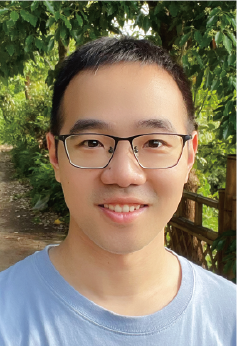
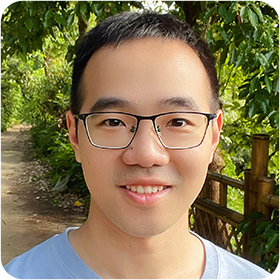
style improvement

diff --git a/templates/index.html b/templates/index.html
@@ -14,17 +14,30 @@
 
     <div class="column1">
       <div class="overall">
-        <h2>Personal Information</h2>
-        <img style="width: auto;"
+        <img style="width: auto; border-radius: 10px;"
         class="fit-picture"           
         src="{{ url_for('static', filename='images/self.png')}}" 
-        alt="Logo-NUS">  
-        <p><strong>Name:</strong> {{person.name}}</p>
+        alt="self">  
+        <h2 class="name" style="color: #144cf7; text-align: center; margin-bottom: 0px;">{{person.name}}</h2>
         <!-- <p><strong>Age:</strong> {{person.age}}</p> -->
-        <p><strong>Email:</strong> {{person.email}}</p>
-        <p><strong>Phone:</strong> {{person.phone}}</p>
-        <p><strong>Location:</strong> {{person.location}}</p>        
-        <a class="badge-base__link LI-simple-link" href="https://www.linkedin.com/in/zeshi-yang">Linkedin</a>
+        <p style="text-align: center;margin-top: 0px; font-size: small;">Ph.D. Candidate</p>
+        <div style="display: flex; align-items: center; justify-content: start;">
+          <!-- <img style="width: 30px;" class="fit-picture" src="{{ url_for('static', filename='images/asset/mail-blue.png')}}" alt="self"> -->
+          <p style="margin-left: 5px;">{{person.email}}</p>
+        </div>
+        <div style="display: flex; align-items: center; justify-content: start;">
+          <img style="width: 30px;" class="fit-picture" src="{{ url_for('static', filename='images/asset/tel-blue.png')}}" alt="self">
+          <p style="margin-left: 5px;">{{person.phone}}</p>
+        </div>
+        <div style="display: flex; align-items: center; justify-content: start;">
+          <img style="width: 30px;" class="fit-picture" src="{{ url_for('static', filename='images/asset/add-blue.png')}}" alt="self">
+          <p style="margin-left: 5px;">{{person.location}}</p>
+        </div>      
+        <div style="display: flex; align-items: center; justify-content: start;">
+          <img style="width: 30px;" class="fit-picture" src="{{ url_for('static', filename='images/asset/link-blue.png')}}" alt="self">
+          <p style="margin-left: 5px;">
+          <a href="https://www.linkedin.com/in/zeshi-yang">Linkedin</a></p>          
+        </div>      
       </div>
     </div>
 
@@ -32,8 +45,8 @@
     <div class="column2">
       <div class="wrapper">
         <div class="section">
-          <h2>About me</h2> 
-          <p>{{ person.introduction | safe}}</p>
+          <h2 style="margin-top: 0;">About me</h2> 
+          <p style="text-align: justify;">{{ person.introduction | safe}}</p>
           <p class="spacer"></p>
           <p><strong>Mottos:</strong></p>            
           <p>在不断的膨胀与打脸中，苟求一丝对世界的认识 (2016-2023)</p>   
@@ -109,4 +122,5 @@
   </div> 
 </body>
 </html>
+<hr>
 {% endblock %}

diff --git a/templates/contact.html b/templates/contact.html
@@ -6,21 +6,34 @@
     <link rel="stylesheet" type="text/css" href="{{ url_for('static', filename='styles/main.css') }}">
 </head>
 <body>
-  <div class="column-container" style="display: grid; grid-template-columns: 1fr 4fr;grid-gap: 100px;"> 
+  <div class="column-container" style="display: grid; grid-template-columns: 165px 4fr;grid-gap: 100px;"> 
 
     <div class="column1">
       <div class="overall">
-        <h2>Personal Information</h2>
-        <img 
+        <img style="width: auto; border-radius: 10px;"
         class="fit-picture"           
         src="{{ url_for('static', filename='images/self.png')}}" 
-        alt="Logo-NUS">  
-        <p><strong>Name:</strong> {{person.name}}</p>
+        alt="self">  
+        <h2 class="name" style="color: #144cf7; text-align: center; margin-bottom: 0px;">{{person.name}}</h2>
         <!-- <p><strong>Age:</strong> {{person.age}}</p> -->
-        <p><strong>Email:</strong> {{person.email}}</p>
-        <p><strong>Phone:</strong> {{person.phone}}</p>
-        <p><strong>Location:</strong> {{person.location}}</p>        
-        <a class="badge-base__link LI-simple-link" href="https://www.linkedin.com/in/zeshi-yang">Linkedin</a>
+        <p style="text-align: center;margin-top: 0px;font-size: small;">Ph.D. Candidate</p>
+        <div style="display: flex; align-items: center; justify-content: start;">
+          <!-- <img style="width: 30px;" class="fit-picture" src="{{ url_for('static', filename='images/asset/mail-blue.png')}}" alt="self"> -->
+          <p style="margin-left: 5px;">{{person.email}}</p>
+        </div>
+        <div style="display: flex; align-items: center; justify-content: start;">
+          <img style="width: 30px;" class="fit-picture" src="{{ url_for('static', filename='images/asset/tel-blue.png')}}" alt="self">
+          <p style="margin-left: 5px;">{{person.phone}}</p>
+        </div>
+        <div style="display: flex; align-items: center; justify-content: start;">
+          <img style="width: 30px;" class="fit-picture" src="{{ url_for('static', filename='images/asset/add-blue.png')}}" alt="self">
+          <p style="margin-left: 5px;">{{person.location}}</p>
+        </div>      
+        <div style="display: flex; align-items: center; justify-content: start;">
+          <img style="width: 30px;" class="fit-picture" src="{{ url_for('static', filename='images/asset/link-blue.png')}}" alt="self">
+          <p style="margin-left: 5px;">
+          <a href="https://www.linkedin.com/in/zeshi-yang">Linkedin</a></p>          
+        </div>      
       </div>
     </div>
   <div class="column2">

diff --git a/static/styles/main.css b/static/styles/main.css
@@ -1,8 +1,9 @@
 body{
-    background-color: rgba(67, 197, 197, 0.39);
     font-family: Arial, sans-serif;
-    margin: 10px;
-    padding: 20px;
+    margin: 0px;
+    background-color: #f9f9f9;
+    padding-top: 0px;
+    margin-top: 0;
 }
 
 h1 {
@@ -13,6 +14,10 @@ text-align: center;
 .overall {
 font-size: 14px;
 text-align: left;
+border-radius: 10px;
+background-color: rgb(220, 220, 220);
+border: 10px;
+padding: 10px;
 }
 
 .section {
@@ -21,7 +26,7 @@ text-align: left;
 }
 
 .section h2 {
-color: #008d7a;
+color: rgb(0 0 144);
 margin-bottom: 10px;
 text-align: left;
 }
@@ -38,6 +43,7 @@ p.spacer {
 display: flex; /* Use flexbox for column layout */
 justify-content: space-evenly;
 column-gap: 50px;
+margin: 30px;
 }
 .column1 {
 flex-grow: 1; 
@@ -74,18 +80,32 @@ hr{
     display: grid;
     grid-template-columns: 1fr 3fr;
     grid-gap: 0px 40px;
+    margin: 30px;
 }
 
 div.project-list{
     align-items: center;
+    gap: 20px;
 }
 div.project-list a.widget{
-
-    background-color: azure;
+    border-radius: 20px;
+    background-color: rgb(14, 189, 248);
     text-align: center;
     color: #000000;
 }
 div.project-list a.widget.highlight {
     background-color: rgba(255, 255, 0, 0.705);
     border: 2px solid red;
+  }
+.h2.name{
+    align-items: center; 
+    color: rgb(0, 213, 255);
+    font-size: 1.2em;    
+}
+
+.section a:visited {
+    color: blue; /* Color for visited links */
+  }
+.overall a:visited {
+    color: blue; /* Color for visited links */
   }

diff --git a/templates/base.html b/templates/base.html
@@ -5,17 +5,21 @@
   <link rel="stylesheet" type="text/css" href="{{ url_for('static', filename='styles/base.css') }}">
 </head>
 <body>
-  <div class="front-page">
-    <img style="max-width: 100%; max-height: 100%;"                   
+  <div class="banner">
+  <div class="logo">
+    <a href="/" data-wpel-link="internal">
+    <img style="max-width: 60px; max-height: 100%; "                   
         src="{{ url_for('static', filename='images/logo.png')}}" 
         alt="Logo-website"> 
+    </a>
   </div>
-  <div class="nav">
-    <a href="/" class="widget">Home</a>
-    <a href="/research" class="widget">Research</a>    
-    <a href="/programming" class="widget">Programming</a>
-    <a href="/contact" class="widget">Contact</a>
-    <!-- <a href="/test" class="widget">Test</a> -->
+  <div class="nav" style="align-self: center;">
+    <a href="/" class="widget {% if request.path == '/' %}active{% endif %}">Home</a>
+    <a href="/research" class="widget {% if 'research' in request.path %}active{% endif %}">Research</a>    
+    <a href="/programming" class="widget {% if 'programming' in request.path %}active{% endif %}">Programming</a>
+    <a href="/contact" class="widget {% if 'contact' in request.path %}active{% endif %}">Contact</a>
+    <!-- <a href="/test" class="widget" {% if request.path == '/test' %}class="active"{% endif %}>Test</a> -->
+  </div>
   </div>
   {% block content %}
   {% endblock %}

diff --git a/templates/research.html b/templates/research.html
@@ -16,9 +16,8 @@
 
     <div class="grid2">
       <div class="wrapper">
-        <div class="section">    
-          <p class="spacer" style="margin-bottom: 70px;"></p>                           
-          <p style="white-space: pre-line; line-height: normal+5px;">Welcome to my research portfolio!
+        <div class="section">                         
+          <p style="white-space: pre-line; line-height: normal+5px;text-align: justify;">Welcome to my research portfolio!
 
             Throughout my research journey, I have been instrumental in exploring and optimizing these additive manufacturing processes to achieve superior part quality, increased efficiency, and enhanced functionality. Leveraging my expertise, I have made significant contributions in areas such as binder-powder interaction in <a href="/research/1">Binder Jetting</a>, improving <a href="/research/2">powder spreading</a> uniformity, refining laser parameters for <a href="/research/3">L-PBF</a>, mitigating <a href="/research/4">powder spattering</a> during L-PBF process, optimizing <a href="/research/5">filament deposition modeling</a>, and enhancing the efficiency and quality of <a href="/research/6">molding injection</a>.
             

diff --git a/templates/programming.html b/templates/programming.html
@@ -17,8 +17,7 @@
     <div class="grid2">
       <div class="wrapper">
         <div class="section">        
-          <p class="spacer" style="margin-bottom: 70px;"> 
-          <p style="white-space: pre-line; line-height: normal+5px;">Welcome to my programming project portfolio! These projects are developed as hobbies during my studies.
+          <p style="white-space: pre-line; line-height: normal+5px;text-align: justify;">Welcome to my programming project portfolio! These projects are developed as hobbies during my studies.
 
             My favourate project is the <a href="/programming/1">trading signal framework</a>. Combining my passion for finance and programming, I created algorithms that analyze market data and generate valuable trading signals. Through extensive research and implementation, these signals aim to assist individuals in making informed trading decisions.     
 

diff --git a/static/styles/base.css b/static/styles/base.css
@@ -6,22 +6,29 @@ margin-right: 10px;
     display: flex;
     justify-content: flex-end;
     font-size: large;
-    margin-top: 10px;
-    margin-bottom: 10px;
-  }
+}
+.widget.active{
+  color: rgb(0,215,255);
+}
 
 .widget {
-margin-left: 10px; /* Adjust the value as needed */
+margin-left: 0px;
 padding: 5px 10px;
-background-color: rgb(2, 2, 2);
-border-radius: 50px;
 text-decoration: none;
 color: rgb(255, 255, 255);
 }
-.front-page {
+.logo {
   display: flex;
-  justify-content: center;
+  justify-content: left;
   align-items: center;
-  height: 100px; /* Set the front page height */
+  margin-left: 30px;
+  margin-top: 10px;
   margin-bottom: 10px;
+  height: 50px;
+}
+.banner{
+display: grid; 
+grid-template-columns: 1fr 3fr;
+background-color: rgb(0, 0, 144);
+margin-bottom: 20px;
 }

diff --git a/templates/research projects/research_projects.html b/templates/research projects/research_projects.html
@@ -15,10 +15,9 @@
     </div>
     <div class="grid2">
       <div class="wrapper">
-        <div class="section">
-          <p class="spacer" style="margin-bottom: 20px;"></p>
-          <h2>{{ intro['full_title'] }}</h2>
-          <p style="white-space: pre-line;">{{ intro['content'] | safe }}</p>     
+        <div class="section" style="transition: marg;">
+          <h2 style="text-align: justify;">{{ intro['full_title'] }}</h2>
+          <p style="white-space: pre-line;text-align: justify;">{{ intro['content'] | safe }}</p>     
           {% for image_src in image_srcs %}
           <img class="fit-picture" src="{{ image_src }}" style="display: block;margin: 0 auto;width: auto;"> 
           {% endfor %}     

diff --git a/templates/programming projects/project_tree.html b/templates/programming projects/project_tree.html
@@ -1,6 +1,6 @@
 <link rel="stylesheet" type="text/css" href="{{ url_for('static', filename='styles/main.css') }}">
-<h2>Projects</h2>
-<div class="project-list" style="grid-template-columns: 1fr; width: 50%;">
+<h2 style="margin-left: 10px;">Projects</h2>
+<div class="project-list" style="grid-template-columns: 1fr; width: 80%; align-items: center;">
   {% for project in programming_intros %}
   <a href="{{ url_for('show_intro_2', intro_id=project['id']) }}" class="widget {% if project['id'] == intro_id %}highlight{% endif %}">{{ project['title'] }}</a>
   {% endfor %}

diff --git a/templates/programming projects/programming_projects.html b/templates/programming projects/programming_projects.html
@@ -16,9 +16,8 @@
     <div class="grid2">
       <div class="wrapper">
         <div class="section">
-          <p class="spacer" style="margin-bottom: 20px;"></p>
           <h2>{{ intro['full_title'] }}</h2>
-          <p style="white-space: pre-line;">{{ intro['content'] | safe }}</p>
+          <p style="white-space: pre-line;text-align: justify;">{{ intro['content'] | safe }}</p>
           {% for image_src in image_srcs %}
           <img class="fit-picture" src="{{ image_src }}" style="display: block;margin: 0 auto;width: auto;"> 
           {% endfor %}

diff --git a/templates/research projects/project_tree.html b/templates/research projects/project_tree.html
@@ -1,5 +1,5 @@
 <link rel="stylesheet" type="text/css" href="{{ url_for('static', filename='styles/main.css') }}">
-<h2>Projects</h2>
+<h2 style="margin-left: 10px;">Projects</h2>
 <div class="project-list" style="grid-template-columns: 1fr 1fr;">
   {% for intro in research_intros %}
       <a href="{{ url_for('show_intro_1', intro_id=intro['id']) }}" class="widget {% if intro['id'] == intro_id %}highlight{% endif %}">{{ intro['title'] }}</a>
